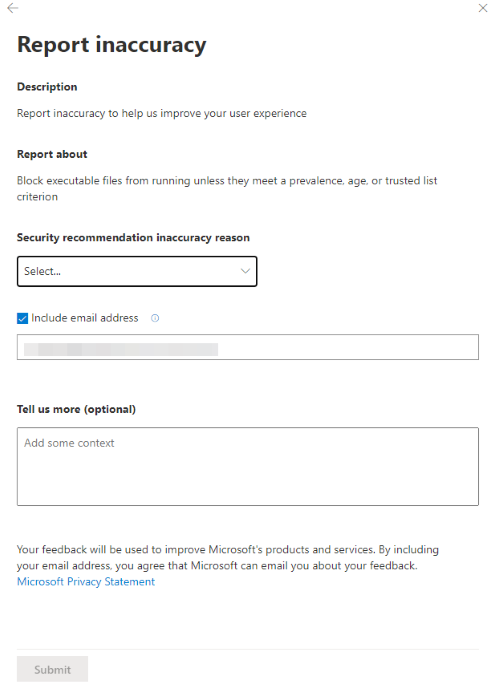
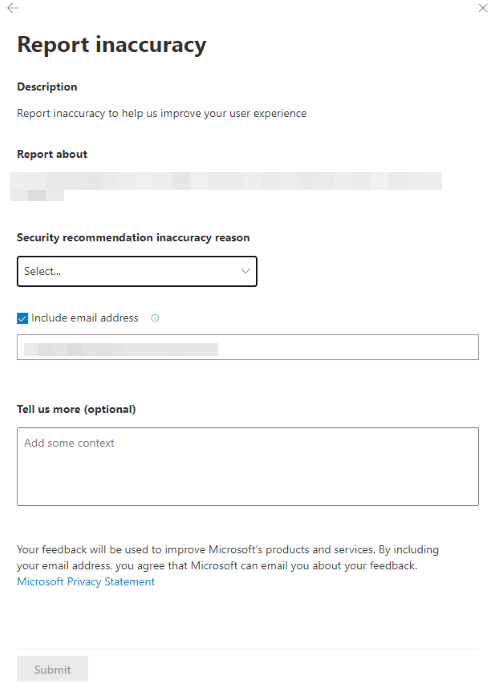
report inaccuracy

Changed region(s): [[0.03, 0.2424, 0.87, 0.303]]

diff --git a/windows/security/threat-protection/microsoft-defender-atp/tvm-software-inventory.md b/windows/security/threat-protection/microsoft-defender-atp/tvm-software-inventory.md
@@ -8,33 +8,35 @@ ms.prod: w10
 ms.mktglfcycl: deploy
 ms.sitesec: library
 ms.pagetype: security
-ms.author: dolmont
-author: DulceMontemayor
+ms.author: ellevin
+author: levinec
 ms.localizationpriority: medium
 manager: dansimp
 audience: ITPro
 ms.collection: M365-security-compliance 
 ms.topic: conceptual
-ms.date: 04/11/2019
 ---
 # Software inventory
+
 **Applies to:**
 - [Microsoft Defender Advanced Threat Protection (Microsoft Defender ATP)](https://go.microsoft.com/fwlink/p/?linkid=2069559)
 
->Want to experience Microsoft Defender ATP? [Sign up for a free trial.](https://www.microsoft.com/microsoft-365/windows/microsoft-defender-atp?ocid=docs-wdatp-portaloverview-abovefoldlink) 
+>Want to experience Microsoft Defender ATP? [Sign up for a free trial.](https://www.microsoft.com/microsoft-365/windows/microsoft-defender-atp?ocid=docs-wdatp-portaloverview-abovefoldlink)
 
 [!include[Prerelease information](../../includes/prerelease.md)]
 
 Microsoft Defender ATP Threat & Vulnerability management's discovery capability shows in the **Software inventory** page. The software inventory includes the name of the product or vendor, the latest version it is in, and the number of weaknesses and vulnerabilities detected with it.
 
 ## Navigate through your software inventory
-1. Select **Software inventory** from the Threat & Vulnerability management navigation menu. The **Software inventory** page opens with a list of software installed in your network, vendor name, weaknesses found, threats associated with them, exposed machines, impact, tags. You can also filter the software inventory list view based on weaknesses found in the software, threats associated with them, and whether the software or software versions have reached their end-of-life.      
+
+1. Select **Software inventory** from the Threat & Vulnerability management navigation menu. The **Software inventory** page opens with a list of software installed in your network, vendor name, weaknesses found, threats associated with them, exposed machines, impact, tags. You can also filter the software inventory list view based on weaknesses found in the software, threats associated with them, and whether the software or software versions have reached their end-of-life.
 ![Screenshot of software inventory page](images/software_inventory_filter.png) 
 2. In the **Software inventory** page, select the software that you want to investigate and a flyout panel opens up with the same details mentioned above but in a more compact view. You can either dive deeper into the investigation and select **Open software page** or flag any technical inconsistencies by selecting **Report inaccuracy**. 
 3. Select **Open software page** to dive deeper into your software inventory to see how many weaknesses are discovered in the software, devices exposed, installed machines, version distribution, and the corresponding security recommendations for the weaknesses and vulnerabilities identified. From the **Version distribution** tab, you can also filter the view by **Version EOL** if you want to see the software versions that has reached their end-of-life which needs to be uninstalled, replaced, or updated.
 
 ## How it works
-In the field of discovery, we are leveraging the same set of signals in Microsoft Defender ATP's endpoint detection and response that's responsible for detection, for vulnerability assessment. 
+
+In the field of discovery, we are leveraging the same set of signals in Microsoft Defender ATP's endpoint detection and response that's responsible for detection, for vulnerability assessment.
 
 Since it is real-time, in a matter of minutes, you will see vulnerability information as they get discovered. The engine automatically grabs information from multiple security feeds. In fact, you'll will see if a particular software is connected to a live threat campaign. It also provides a link to a Threat Analytics report soon as it's available.
 
@@ -42,29 +44,22 @@ Since it is real-time, in a matter of minutes, you will see vulnerability inform
 
 You can report a false positive when you see any vague, inaccurate version, incomplete, or already remediated software inventory information in the machine page.
 
-1. Select the **Software inventory** tab. 
+1. Select one of the software rows. A flyout will appear.
 
-2. Click **:** beside the software that you want to report about, and then select **Report inaccuracy**. 
-![Screenshot of Report inaccuracy control from the machine page under the Software inventory column](images/tvm_report_inaccuracy_software.png)
-<br>A flyout pane opens.</br>
-![Screenshot of Report inaccuracy flyout pane](images/tvm_report_inaccuracy_softwareflyout.png)
+2. Select "Report inaccuracy" in the flyout
 
-3. From the flyout pane, select the inaccuracy category from the **Software inventory inaccuracy reason** drop-down menu. 
-<br>![Screenshot of Report inaccuracy software inventory inaccuracy reason drop-down menu](images/tvm_report_inaccuracy_softwareoptions.png)</br>
+![Screenshot of Report inaccuracy control](images/software-inventory-report-inaccuracy500.png)
 
-4. Include your email address so Microsoft can send you feedback regarding the inaccuracy you reported.
+3. From the flyout pane, select the inaccuracy category from the drop-down menu, fill in your email address, and details regarding the inaccuracy.
 
-5. Include your machine name for investigation context.
+![Screenshot of Report inaccuracy flyout pane](images/report-inaccuracy-flyout500.png)
 
-    >[!NOTE]
-    > You can also provide details regarding the inaccuracy you reported in the **Tell us more (optional)** field to give the threat and vulnerability management investigators context. 
-
-6. Click **Submit**. Your feedback is immediately sent to the Threat & Vulnerability Management experts with its context.
-
+4. Select **Submit**. Your feedback is immediately sent to the Threat & Vulnerability Management experts.
 
 ## Related topics
+
 - [Supported operating systems and platforms](tvm-supported-os.md)
-- [Risk-based Threat & Vulnerability Management](next-gen-threat-and-vuln-mgt.md) 
+- [Risk-based Threat & Vulnerability Management](next-gen-threat-and-vuln-mgt.md)
 - [Threat & Vulnerability Management dashboard overview](tvm-dashboard-insights.md)
 - [Exposure score](tvm-exposure-score.md)
 - [Configuration score](configuration-score.md)
@@ -72,10 +67,9 @@ You can report a false positive when you see any vague, inaccurate version, inco
 - [Remediation and exception](tvm-remediation.md)
 - [Weaknesses](tvm-weaknesses.md)
 - [Scenarios](threat-and-vuln-mgt-scenarios.md)
-- [Configure data access for Threat & Vulnerability Management roles](https://docs.microsoft.com/windows/security/threat-protection/microsoft-defender-atp/user-roles#create-roles-and-assign-the-role-to-an-azure-active-directory-group)
-- [Software APIs](https://docs.microsoft.com/windows/security/threat-protection/microsoft-defender-atp/software)
-- [Machine APIs](https://docs.microsoft.com/windows/security/threat-protection/microsoft-defender-atp/machine)
-- [Vulnerability APIs](https://docs.microsoft.com/windows/security/threat-protection/microsoft-defender-atp/vulnerability)
-- [Recommendation APIs](https://docs.microsoft.com/windows/security/threat-protection/microsoft-defender-atp/vulnerability)
-- [Score APIs](https://docs.microsoft.com/windows/security/threat-protection/microsoft-defender-atp/score)
-
+- [Configure data access for Threat & Vulnerability Management roles](user-roles.md#create-roles-and-assign-the-role-to-an-azure-active-directory-group)
+- [Recommendation APIs](vulnerability.md)
+- [Machine APIs](machine.md)
+- [Score APIs](score.md)
+- [Software APIs](software.md)
+- [Vulnerability APIs](vulnerability.md)
